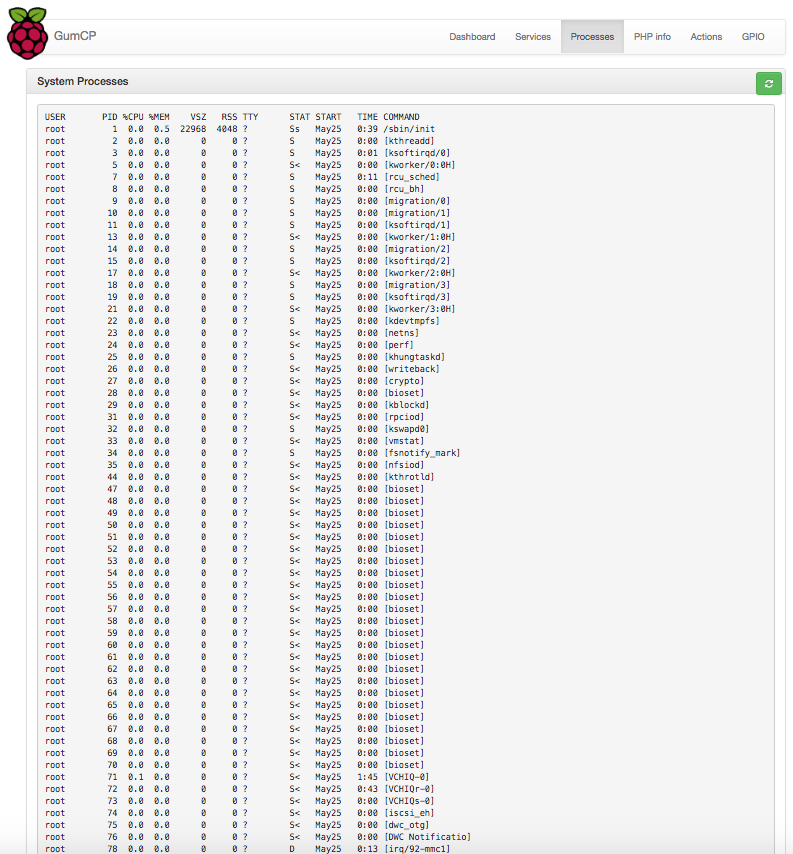
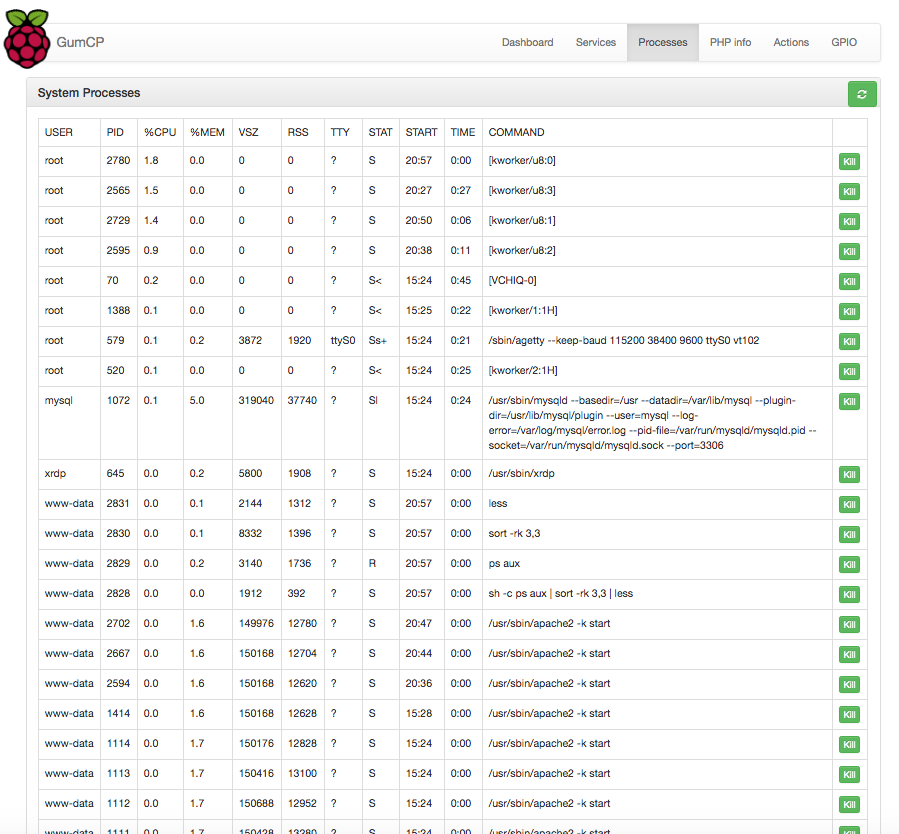
processes page updated

Changed region(s): [[0.0, 0.0, 0.9079, 1.0], [0.5448, 0.0, 0.9987, 1.0]]

diff --git a/processes.php b/processes.php
@@ -1,7 +1,16 @@
 <?php
 	include_once('./include/config.php');
 	
-	$processes = shell_exec('ps aux | less');
+	$processes = shell_exec('ps aux | sort -rk 3,3 | less');
+	$rows_arr = preg_split("/\\r\\n|\\r|\\n/", $processes);
+	$process_rows = array();
+	for($i=0;$i<count($rows_arr);$i++)
+	{
+		$rows_arr[$i] = preg_replace('/\s+/', ' ', $rows_arr[$i]);
+		$cells_arr = explode(' ', $rows_arr[$i],11);
+		$process_rows[] = $cells_arr;
+	}
+	#print_r($process_rows);
 ?>
 <!DOCTYPE html>
 <html lang="en">
@@ -60,7 +69,37 @@
 					</div>
 					<div class="panel-body">
 
-						<pre><?php echo $processes; ?></pre>
+						
+						<table class="table table-bordered">
+							<tbody>
+								
+								<?php 
+									if(is_array($process_rows))
+									{
+										for($k=0;$k<count($process_rows);$k++)
+										{
+											echo '<tr>';
+											
+											for($i=0;$i<count($process_rows[$k]);$i++)
+											{
+												echo '<td>';
+												echo $process_rows[$k][$i];
+												echo '</td>';
+											}
+											if($process_rows[$k][1]>0)
+											{
+												echo '<td><form method="post" action="./actions.php" style="display:inline-block;"><input type="hidden" name="pid" value="'.$process_rows[$k][1].'"><input type="hidden" class="form-control" name="action" value="kill_pid"><button type="submit" class="btn btn-xs btn-success" onclick="return confirm(\'Are you sure to kill process pid '.$process_rows[$k][1].'?\')">Kill</button></form></td>';
+											}
+											else
+											{
+												echo '<td></td>';
+											}
+											echo '</tr>';
+										}
+									}
+								?>
+							</tbody>
+						</table>
 						
 
 								
